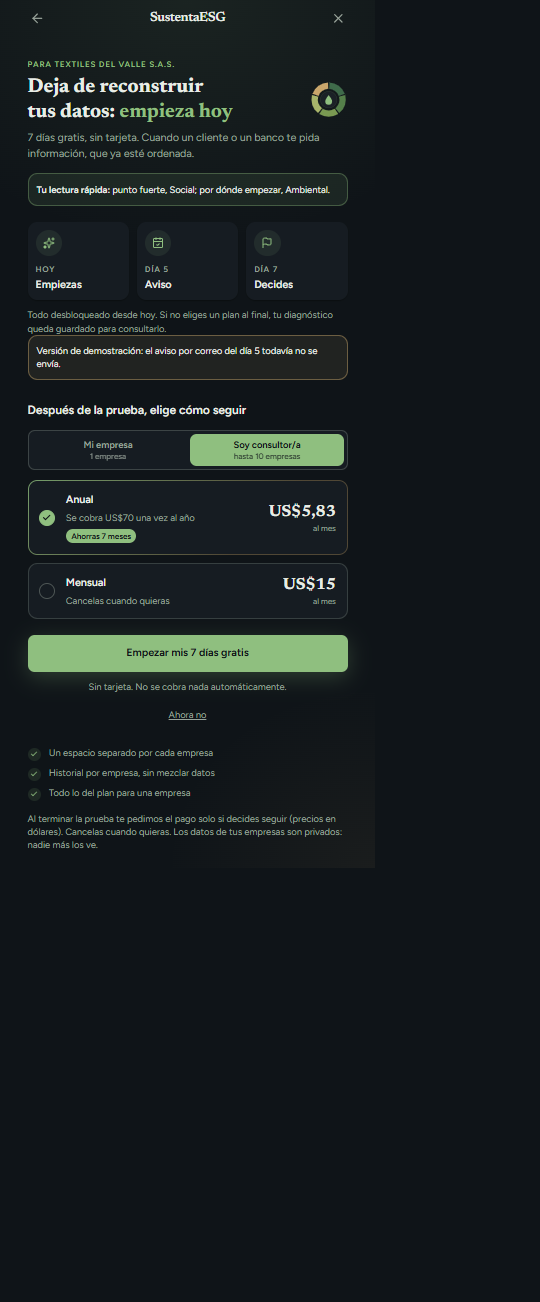
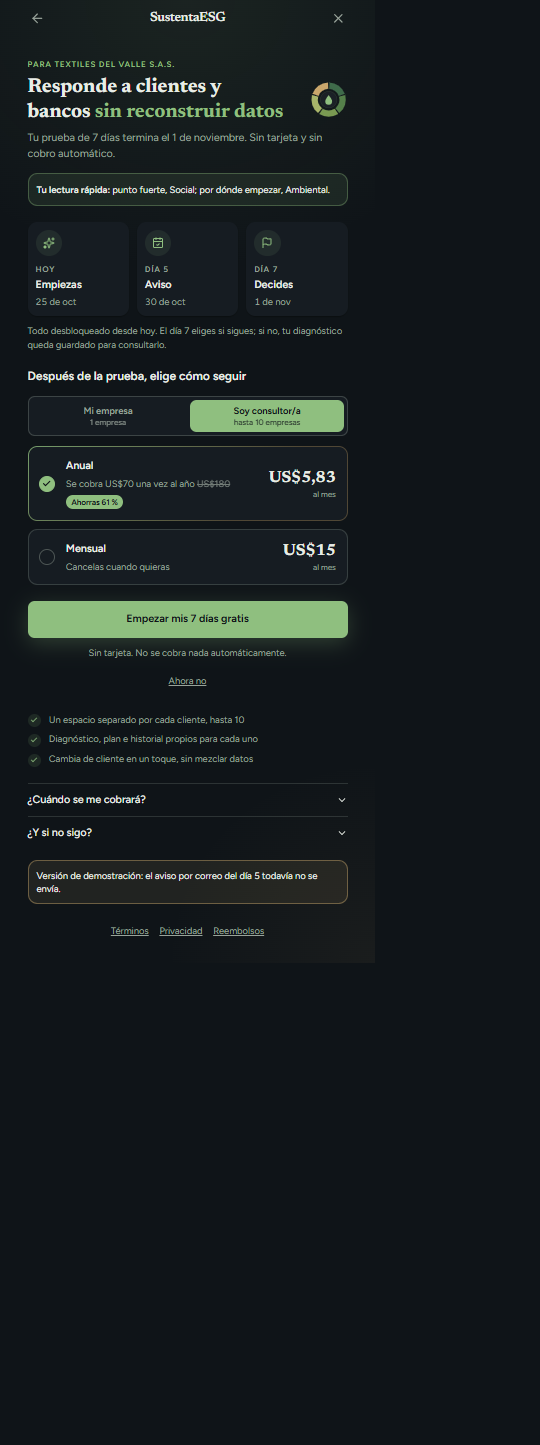
feat: planes con titular segun motivo, fechas reales, ahorro calculado y preguntas de cobro
Titular dinamico por motivo del recorrido, fecha exacta de fin de prueba y linea de
tiempo con fechas, ahorro del anual calculado desde los precios (lib/planes.ts con
pruebas), beneficios como resultado, preguntas sobre el cobro, enlaces legales,
entrada escalonada con reduced-motion y evento planes_salida. 65 pruebas.

Changed region(s): [[0.0296, 0.0, 0.6519, 0.6759]]

diff --git a/components/planes/Planes.tsx b/components/planes/Planes.tsx
@@ -6,13 +6,13 @@
 
 import { useEffect, useState } from 'react';
 import Link from 'next/link';
-import { motion } from 'motion/react';
-import { CalendarCheck, Check, Flag, Sparkles } from 'lucide-react';
+import { motion, useReducedMotion } from 'motion/react';
+import { CalendarCheck, Check, ChevronDown, Flag, Sparkles } from 'lucide-react';
 import { Marco } from '@/components/flujo/Marco';
 import { RuedaMini } from '@/components/flujo/RuedaMini';
 import { track } from '@/lib/analytics';
 import { MODO_DEMO, sesionActual } from '@/lib/auth';
-import { guardarPlan, leerInicio, leerPlan, perfilSugerido, type Ciclo, type Perfil } from '@/lib/demo/store';
+import { guardarPlan, leerInicio, leerPlan, perfilSugerido, type Ciclo, type Motivo, type Perfil } from '@/lib/demo/store';
 import { NOMBRE_DIMENSION } from '@/lib/diagnostico/banco';
 import { lecturaRapida } from '@/lib/diagnostico/rapida';
 import { PLANES } from '@/lib/planes';
@@ -20,10 +20,23 @@ import { TRIAL_DIAS } from '@/lib/site';
 import { useMontado } from '@/lib/useMontado';
 
 const LINEA_TIEMPO = [
-  { icono: Sparkles, cuando: 'Hoy', titulo: 'Empiezas' },
-  { icono: CalendarCheck, cuando: 'Día 5', titulo: 'Aviso' },
-  { icono: Flag, cuando: `Día ${TRIAL_DIAS}`, titulo: 'Decides' },
+  { icono: Sparkles, cuando: 'Hoy', dias: 0, titulo: 'Empiezas' },
+  { icono: CalendarCheck, cuando: 'Día 5', dias: 5, titulo: 'Aviso' },
+  { icono: Flag, cuando: `Día ${TRIAL_DIAS}`, dias: TRIAL_DIAS, titulo: 'Decides' },
 ];
+
+/** Titular según para qué vino la persona (respuesta del recorrido): la promesa se parece a su motivo. */
+const TITULARES: Record<Motivo, { antes: string; acento: string }> = {
+  cliente: { antes: 'Responde a clientes y bancos', acento: 'sin reconstruir datos' },
+  direccion: { antes: 'Muestra a tu dirección cómo estás,', acento: 'con datos ordenados' },
+  ordenar: { antes: 'Deja de reconstruir tus datos:', acento: 'empieza hoy' },
+  cero: { antes: 'Deja de reconstruir tus datos:', acento: 'empieza hoy' },
+  otra: { antes: 'Deja de reconstruir tus datos:', acento: 'empieza hoy' },
+};
+
+const formatoDia = new Intl.DateTimeFormat('es-CO', { day: 'numeric', month: 'short' });
+const formatoDiaLargo = new Intl.DateTimeFormat('es-CO', { day: 'numeric', month: 'long' });
+const sumarDias = (base: Date, dias: number) => new Date(base.getFullYear(), base.getMonth(), base.getDate() + dias);
 
 export function Planes() {
   const montado = useMontado();
@@ -44,6 +57,16 @@ function PlanesCliente() {
   const [perfil, setPerfil] = useState<Perfil>(() => leerPlan()?.perfil ?? perfilSugerido(leerInicio()));
   const [ciclo, setCiclo] = useState<Ciclo>(() => leerPlan()?.ciclo ?? 'anual');
   const [empresa] = useState(() => leerInicio().empresa);
+  const [motivo] = useState<Motivo>(() => leerInicio().motivo ?? 'otra');
+  const [hoy] = useState(() => new Date());
+  const titular = TITULARES[motivo];
+  const reduce = useReducedMotion();
+  /** Entrada escalonada (60 ms entre bloques); sin desplazamiento si la persona pidió menos movimiento. */
+  const entrada = (i: number) => ({
+    initial: { opacity: 0, y: reduce ? 0 : 16 },
+    animate: { opacity: 1, y: 0 },
+    transition: { duration: 0.4, delay: reduce ? 0 : 0.06 * i, ease: [0.32, 0.72, 0, 1] as const },
+  });
   const [lectura] = useState(() => lecturaRapida(leerInicio().rapida));
   const [conSesion] = useState(() => sesionActual() !== null);
   const [abriendo, setAbriendo] = useState(false);
@@ -59,12 +82,12 @@ function PlanesCliente() {
       </p>
       <div className="mt-2 flex items-center justify-between gap-4">
         <h1 className="text-balance text-3xl font-bold leading-tight [font-family:var(--font-display)]">
-          Deja de reconstruir tus datos: <span className="text-[var(--accent)]">empieza hoy</span>
+          {titular.antes} <span className="text-[var(--accent)]">{titular.acento}</span>
         </h1>
         <RuedaMini tamano={56} />
       </div>
       <p className="mt-2 text-base text-[var(--text-secondary)]">
-        {TRIAL_DIAS} días gratis, sin tarjeta. Cuando un cliente o un banco te pida información, que ya esté ordenada.
+        Tu prueba de {TRIAL_DIAS} días termina el {formatoDiaLargo.format(sumarDias(hoy, TRIAL_DIAS))}. Sin tarjeta y sin cobro automático.
       </p>
 
       {lectura.completa && (lectura.fortaleza || lectura.atencion.length > 0) && (
@@ -76,27 +99,22 @@ function PlanesCliente() {
       )}
 
       <ol className="mt-6 grid grid-cols-[repeat(3,minmax(0,1fr))] gap-3" aria-label="Qué pasa durante la prueba">
-        {LINEA_TIEMPO.map((paso) => (
-          <li key={paso.cuando} className="rounded-[var(--radius-card)] bg-[var(--surface)] p-3 shadow-[var(--shadow-1)]">
+        {LINEA_TIEMPO.map((paso, i) => (
+          <motion.li key={paso.cuando} {...entrada(i)} className="rounded-[var(--radius-card)] bg-[var(--surface)] p-3 shadow-[var(--shadow-1)]">
             <span aria-hidden="true" className="flex size-10 items-center justify-center rounded-full bg-[var(--chip-bg)]">
               <paso.icono size={18} color="var(--accent)" />
             </span>
             <p className="mt-3 text-xs font-semibold uppercase tracking-widest text-[var(--text-secondary)]">{paso.cuando}</p>
             <p className="mt-1 text-base font-semibold leading-snug">{paso.titulo}</p>
-          </li>
+            <p className="mt-1 text-sm tabular-nums text-[var(--text-secondary)]">{formatoDia.format(sumarDias(hoy, paso.dias))}</p>
+          </motion.li>
         ))}
       </ol>
       <p className="mt-3 text-sm text-[var(--text-secondary)]">
-        Todo desbloqueado desde hoy. Si no eliges un plan al final, tu diagnóstico queda guardado para consultarlo.
+        Todo desbloqueado desde hoy. El día {TRIAL_DIAS} eliges si sigues; si no, tu diagnóstico queda guardado para consultarlo.
       </p>
 
-      {MODO_DEMO && (
-        <p className="mb-6 rounded-[var(--radius-card)] border border-[color-mix(in_oklab,var(--accent-2)_45%,transparent)] bg-[color-mix(in_oklab,var(--accent-2)_10%,transparent)] p-3 text-sm">
-          Versión de demostración: el aviso por correo del día 5 todavía no se envía.
-        </p>
-      )}
-
-      <section aria-label="Elige tu plan para después de la prueba" className="mt-2">
+      <motion.section {...entrada(2)} aria-label="Elige tu plan para después de la prueba" className="mt-6">
         <h2 className="text-lg font-semibold">Después de la prueba, elige cómo seguir</h2>
 
         <div role="tablist" aria-label="Tipo de plan" className="mt-4 flex gap-2 rounded-[var(--radius-button)] border border-[color-mix(in_oklab,var(--text-tertiary)_35%,transparent)] bg-[var(--surface)] p-1">
@@ -159,7 +177,17 @@ function PlanesCliente() {
                   <span className="flex items-center gap-2 text-base font-semibold">
                     {info.etiqueta}
                   </span>
-                  <span className="mt-1 block text-sm text-[var(--text-secondary)]">{info.detalle}</span>
+                  <span className="mt-1 block text-sm text-[var(--text-secondary)]">
+                    {info.detalle}
+                    {info.antes && (
+                      <>
+                        {' '}
+                        <s className="opacity-70" aria-label={`antes ${info.antes}`}>
+                          {info.antes}
+                        </s>
+                      </>
+                    )}
+                  </span>
                   {info.insignia && (
                     <span className="mt-2 inline-block whitespace-nowrap rounded-full bg-[var(--accent)] px-2 py-0.5 text-xs font-semibold text-[var(--bg)]">{info.insignia}</span>
                   )}
@@ -173,9 +201,9 @@ function PlanesCliente() {
           })}
         </div>
 
-      </section>
+      </motion.section>
 
-      <div className="mt-6">
+      <motion.div {...entrada(3)} className="mt-6">
         <Link
           href={destino}
           aria-busy={abriendo}
@@ -193,7 +221,11 @@ function PlanesCliente() {
           {abriendo ? 'Abriendo…' : `Empezar mis ${TRIAL_DIAS} días gratis`}
         </Link>
         <p className="mt-3 text-center text-sm text-[var(--text-secondary)]">Sin tarjeta. No se cobra nada automáticamente.</p>
-        <Link href="/" className="mx-auto mt-2 flex h-12 w-fit items-center px-4 text-sm text-[var(--text-secondary)] underline">
+        <Link
+          href="/"
+          onClick={() => track('planes_salida', { perfil, ciclo })}
+          className="mx-auto mt-2 flex h-12 w-fit items-center px-4 text-sm text-[var(--text-secondary)] underline"
+        >
           Ahora no
         </Link>
 
@@ -207,11 +239,45 @@ function PlanesCliente() {
             </li>
           ))}
         </ul>
-        <p className="mt-4 text-sm text-[var(--text-secondary)]">
-          Al terminar la prueba te pedimos el pago solo si decides seguir (precios en dólares). Cancelas cuando quieras. Los datos de tus empresas son privados: nadie más los ve.
+        <div className="mt-6 flex flex-col">
+          <Pregunta pregunta="¿Cuándo se me cobrará?">
+            No se cobra nada automáticamente. El {formatoDiaLargo.format(sumarDias(hoy, TRIAL_DIAS))} termina tu prueba y, si quieres seguir, ese día eliges un plan (precios en dólares).
+          </Pregunta>
+          <Pregunta pregunta="¿Y si no sigo?">
+            Tu diagnóstico queda guardado para consultarlo. Los datos de tus empresas son privados: nadie más los ve.
+          </Pregunta>
+        </div>
+        {MODO_DEMO && (
+          <p className="mt-4 rounded-[var(--radius-card)] border border-[color-mix(in_oklab,var(--accent-2)_45%,transparent)] bg-[color-mix(in_oklab,var(--accent-2)_10%,transparent)] p-3 text-sm">
+            Versión de demostración: el aviso por correo del día 5 todavía no se envía.
+          </p>
+        )}
+        <p className="mt-4 flex flex-wrap justify-center gap-x-4 text-sm text-[var(--text-secondary)]">
+          <Link href="/terminos" className="flex h-12 items-center underline">
+            Términos
+          </Link>
+          <Link href="/privacidad" className="flex h-12 items-center underline">
+            Privacidad
+          </Link>
+          <Link href="/reembolsos" className="flex h-12 items-center underline">
+            Reembolsos
+          </Link>
         </p>
-      </div>
+      </motion.div>
     </Marco>
+  );
+}
+
+/** Pregunta frecuente en el punto de decisión: se abre y se cierra, con el texto a la vista al abrir. */
+function Pregunta({ pregunta, children }: { pregunta: string; children: React.ReactNode }) {
+  return (
+    <details className="group border-t border-[color-mix(in_oklab,var(--text-tertiary)_25%,transparent)]">
+      <summary className="flex min-h-12 cursor-pointer list-none items-center justify-between gap-3 text-base font-medium">
+        {pregunta}
+        <ChevronDown size={18} className="shrink-0 transition-transform group-open:rotate-180" aria-hidden="true" />
+      </summary>
+      <p className="pb-3 text-sm leading-relaxed text-[var(--text-secondary)]">{children}</p>
+    </details>
   );
 }
 

diff --git a/lib/planes.ts b/lib/planes.ts
@@ -1,12 +1,31 @@
-// Precios y contenido de los planes. Son HIPÓTESIS del dueño (por validar); la página de ventas
+// Precios y contenido de los planes. Los precios son HIPÓTESIS del dueño (por validar); la página de ventas
 // (components/landing/OfertaPorPerfil.tsx) repite estas cifras: si cambian, cambian en los dos sitios.
+// Todo lo que se muestra (equivalente mensual, «antes», porcentaje de ahorro) se CALCULA desde estos números:
+// nunca se escribe a mano un descuento que no salga de la cuenta.
 
 import type { Ciclo, Perfil } from '@/lib/demo/store';
+
+export const PRECIOS_US: Record<Perfil, { mensual: number; anual: number }> = {
+  empresa: { mensual: 9, anual: 60 },
+  consultor: { mensual: 15, anual: 70 },
+};
+
+const formatoUS = new Intl.NumberFormat('es-CO', { maximumFractionDigits: 2, minimumFractionDigits: 0 });
+export const dolares = (n: number) => `US$${formatoUS.format(Math.round(n * 100) / 100)}`;
+
+/** Lo que costarían 12 meses pagando mes a mes, y cuánto se ahorra (en %, redondeado) pagando el año. */
+export function ahorroAnual(perfil: Perfil): { antes: number; porcentaje: number } {
+  const { mensual, anual } = PRECIOS_US[perfil];
+  const antes = mensual * 12;
+  return { antes, porcentaje: Math.round((1 - anual / antes) * 100) };
+}
 
 export interface PlanCiclo {
   etiqueta: string;
   precioMes: string;
   detalle: string;
+  /** Solo el anual: precio de 12 meses mes a mes, para mostrarlo tachado. */
+  antes?: string;
   insignia?: string;
 }
 
@@ -17,31 +36,40 @@ export interface PlanPerfil {
   ciclos: Record<Ciclo, PlanCiclo>;
 }
 
+function ciclos(perfil: Perfil): Record<Ciclo, PlanCiclo> {
+  const { mensual, anual } = PRECIOS_US[perfil];
+  const ahorro = ahorroAnual(perfil);
+  return {
+    anual: {
+      etiqueta: 'Anual',
+      precioMes: dolares(anual / 12),
+      detalle: `Se cobra ${dolares(anual)} una vez al año`,
+      antes: dolares(ahorro.antes),
+      insignia: `Ahorras ${ahorro.porcentaje} %`,
+    },
+    mensual: { etiqueta: 'Mensual', precioMes: dolares(mensual), detalle: 'Cancelas cuando quieras' },
+  };
+}
+
 export const PLANES: Record<Perfil, PlanPerfil> = {
   empresa: {
     nombre: 'Mi empresa',
     alcance: '1 empresa',
     incluye: [
-      'Diagnóstico completo de las cuatro dimensiones',
-      'Plan de mejora con responsable y fecha',
-      'Historial y comparación entre periodos',
+      'Responde a clientes y bancos con tu información ya ordenada',
+      'Sabe qué hacer primero: acciones ordenadas por prioridad',
+      'Mira cómo avanza tu empresa de un periodo a otro',
     ],
-    ciclos: {
-      anual: { etiqueta: 'Anual', precioMes: 'US$5', detalle: 'Se cobra US$60 una vez al año', insignia: 'Ahorras 5 meses' },
-      mensual: { etiqueta: 'Mensual', precioMes: 'US$9', detalle: 'Cancelas cuando quieras' },
-    },
+    ciclos: ciclos('empresa'),
   },
   consultor: {
     nombre: 'Soy consultor/a',
     alcance: 'hasta 10 empresas',
     incluye: [
-      'Un espacio separado por cada empresa',
-      'Historial por empresa, sin mezclar datos',
-      'Todo lo del plan para una empresa',
+      'Un espacio separado por cada cliente, hasta 10',
+      'Diagnóstico, plan e historial propios para cada uno',
+      'Cambia de cliente en un toque, sin mezclar datos',
     ],
-    ciclos: {
-      anual: { etiqueta: 'Anual', precioMes: 'US$5,83', detalle: 'Se cobra US$70 una vez al año', insignia: 'Ahorras 7 meses' },
-      mensual: { etiqueta: 'Mensual', precioMes: 'US$15', detalle: 'Cancelas cuando quieras' },
-    },
+    ciclos: ciclos('consultor'),
   },
 };

diff --git a/lib/planes.test.ts b/lib/planes.test.ts
@@ -1,0 +1,40 @@
+import { describe, expect, it } from 'vitest';
+import { ahorroAnual, dolares, PLANES, PRECIOS_US } from './planes';
+
+describe('ahorro del plan anual', () => {
+  it('se calcula desde los precios: 12 meses mes a mes contra el año', () => {
+    expect(ahorroAnual('empresa')).toEqual({ antes: 108, porcentaje: 44 });
+    expect(ahorroAnual('consultor')).toEqual({ antes: 180, porcentaje: 61 });
+  });
+
+  it('nunca promete más descuento del que hay', () => {
+    for (const p of ['empresa', 'consultor'] as const) {
+      const { mensual, anual } = PRECIOS_US[p];
+      expect(ahorroAnual(p).porcentaje).toBeLessThanOrEqual(Math.floor((1 - anual / (mensual * 12)) * 100) + 1);
+      expect(anual).toBeLessThan(mensual * 12);
+    }
+  });
+});
+
+describe('textos de los planes', () => {
+  it('muestra el equivalente mensual del anual con coma decimal', () => {
+    expect(PLANES.empresa.ciclos.anual.precioMes).toBe('US$5');
+    expect(PLANES.consultor.ciclos.anual.precioMes).toBe('US$5,83');
+  });
+
+  it('el precio «antes» y el porcentaje coinciden con la cuenta', () => {
+    expect(PLANES.empresa.ciclos.anual.antes).toBe('US$108');
+    expect(PLANES.empresa.ciclos.anual.insignia).toBe('Ahorras 44 %');
+    expect(PLANES.consultor.ciclos.anual.insignia).toBe('Ahorras 61 %');
+  });
+
+  it('el mensual no tiene descuento ni precio tachado', () => {
+    expect(PLANES.empresa.ciclos.mensual.antes).toBeUndefined();
+    expect(PLANES.empresa.ciclos.mensual.insignia).toBeUndefined();
+  });
+
+  it('da formato a los dólares', () => {
+    expect(dolares(9)).toBe('US$9');
+    expect(dolares(5.8333)).toBe('US$5,83');
+  });
+});

diff --git a/lib/analytics.ts b/lib/analytics.ts
@@ -8,6 +8,7 @@ export type EventoCamino =
   | 'onboarding_paso'
   | 'resultado_visto'
   | 'planes_visto'
+  | 'planes_salida'
   | 'prueba_elegida'
   | 'registro_iniciado'
   | 'cuenta_creada'

diff --git a/docs/revisiones/planes-veredicto.md b/docs/revisiones/planes-veredicto.md
@@ -1,15 +1,18 @@
 # VEREDICTO revisor-visual — planes
-Fecha: 2026-10-25 15:00
+Fecha: 2026-10-25 18:00
 Screenshot: docs/revisiones/planes-375.png
 Usabilidad: 32/40
 Craft: 14/20
-Copy (si vende): 15/20
+Copy (si vende): 16/20
 Fidelidad (si hubo referencia): N-A
 Veredicto: NO LISTA
-Top defectos: 1) [ALTA - movimiento, Planes.tsx] sin useReducedMotion, sin entrada escalonada, sin conteo de precio al cambiar anual/mensual, sin transicion del selector; solo whileTap en el CTA (linea 133). Fix: stagger 60 ms en bloques, precio con animate() y reduced-motion. 2) [ALTA - copy] especificidad 2 y sub-check de garantia nombrada fallido: ningun numero de prueba ni garantia con nombre y plazo cerca del CTA; "Sin tarjeta" no aparece junto al boton. Fix: una linea bajo el CTA con la proteccion real ya verificada ("7 dias gratis, sin tarjeta; cancelas en un clic") y nombrarla; garantia solo cuando Hotmart la confirme. 3) [MEDIA - CTA, y~1055 de 1471] el CTA ya queda mas cerca (antes ~1195), pero sigue bajo el primer viewport, con 6 bloques entre titular y boton (resumen, linea de tiempo, parrafo, nota de demo, selector, 2 tarjetas). Fix: barra inferior fija con el CTA y el precio elegido, o mover la nota de demo al pie. 4) [MEDIA - lectura] el resumen "punto fuerte, Social; por donde empezar, Ambiental" es texto plano con una coma mal puesta que lee raro y sin las barras que el usuario acaba de ver. Fix: mini-barras de 4 niveles o chips "Fuerte: Social" / "Empezar: Ambiental". 5) [BAJA - encaje/consistencia] el aviso de demo (ambar) y el resumen (verde) son dos cajas con estilos distintos pegadas a la linea de tiempo; parrafo legal final largo (5 lineas) y vinetas genericas ("Todo lo del plan para una empresa"); precios en dolares sin aclarar cobro en moneda local. Fix: unificar cajas, vinetas concretas (40 preguntas, informes, historial) y recortar el legal.
+Top defectos: 1) [ALTA - movimiento, Planes.tsx completo] sigue sin entrada escalonada, sin conteo del precio al cambiar anual/mensual o de perfil, sin useReducedMotion (solo lo usa Opciones.tsx), sin transicion al cambiar de selector; unico movimiento: whileTap en tarjetas y active:scale en CTA. Fix: stagger 60 ms con cubic-bezier(0.32,0.72,0,1), precio con animate() de conteo, useReducedMotion. 2) [MEDIA - carga y orden, entre titular y selector] 5 bloques antes de elegir plan (lectura rapida, linea de tiempo, parrafo, aviso de demo, titulo de seccion); la caja de lectura sigue como texto plano con puntuacion rara ("punto fuerte, Social; por donde empezar, Ambiental."). Fix: chips "Fuerte: Social" / "Empezar: Ambiental" y mover el aviso de demo al pie. 3) [MEDIA - copy, bajo el CTA] sub-check de garantia nombrada falla (decision aceptada por honestidad) y no hay ninguna prueba verificable; no se baja de 3 en oferta/especificidad. Fix: cuando Hotmart confirme, nombrar la garantia con plazo junto al boton; mientras tanto, un numero real del producto (p. ej. "40 preguntas, 5 dimensiones") en la linea bajo el CTA. 4) [BAJA - consistencia, tarjetas de plan y linea de tiempo] dos niveles de seleccion apilados (perfil + ciclo) y fechas en dos formatos ("25 de oct" vs "1 de noviembre"); selector con role=tablist sin tabpanel. Fix: unificar formato de fecha y usar role=radiogroup en el selector de perfil. 5) [BAJA - jerarquia, beneficios bajo "Ahora no"] los beneficios (13 px, gris) quedan tras el CTA, lejos de las tarjetas de precio donde se decide. Fix: subirlos a la tarjeta del plan elegido o justo antes del CTA.
 
 ## Verificado en codigo y captura
-Corregido bien: rueda mas pequena y alineada al titular; resumen de lectura en 2 lineas; "Aviso" en 1 linea (tarjetas niveladas); la lectura ahora se ve en el panel (segun informe, no re-capturado aqui, fuera de este screenshot); titular con "empieza hoy" en acento; selector, tarjeta Anual con check y hairline; ahorro 7 meses coherente; CTA h-14 verde con buen contraste, siempre habilitado, estado "Abriendo..."; "Ahora no" y cerrar visibles; nota honesta de demo. Sin useReducedMotion en Planes.tsx (grep). Detalle usabilidad: h1:3 h2:3 h3:3 h4:3 h5:3 h6:4 h7:3 h8:3 h9:3 h10:4 (suma 32). Craft: jerarquia:3 profundidad:3 identidad:3 movimiento:2 encaje:3 (suma 14). Copy: idea:3 especificidad:2 emocion:3 oferta:3 accion:4... ajustado a idea:3 especificidad:2 emocion:3 oferta:4 accion:3 (suma 15; especificidad <=2 se corrige aunque el total pase; sub-check de garantia: fallo aceptado como honestidad pero cuenta).
+Mejoras reales: titular por motivo con 2-3 palabras en acento; fecha exacta de fin de prueba bajo el titular; linea de tiempo con fechas reales; ahorro 61 % calculado en lib/planes.ts (70/180 = 61 %, coherente con la tarjeta); precio tachado US$180 legible; beneficios concretos; FAQ de cobro con fecha; enlaces legales con area tactil de 48 px; evento planes_salida; CTA h-14, verde sobre fondo con contraste 8,8, siempre habilitado, "Abriendo..." al tocar, en el primer viewport (y~650 de 812). Paleta, Newsreader/Figtree, radios y verde #8FBF7F coinciden con FICHA-ARTE; sin desvios. Test anti-clon: la paleta bosque no es la vetada (Capitulo/Umbral). Anclas de conversion: titular con énfasis OK, hairline degradé en tarjeta activa OK, chips SVG sin emojis OK, secciones distinguibles OK.
+Usabilidad: h1:3 h2:3 h3:3 h4:3 h5:3 h6:4 h7:3 h8:3 h9:3 h10:4 (suma 32). Craft: jerarquia:3 profundidad:3 identidad:3 movimiento:2 encaje:3 (suma 14). Copy: idea:3 especificidad:3 emocion:3 oferta:3 accion:4 (suma 16; ningun eje <=2; sub-check garantia nombrada: FALLA, aceptado como honestidad pero cuenta; message-match: no verificable, sin dato de anuncio).
+Gate de carga cognitiva: 1-2 fallas (bloques antes del plan, caja de lectura densa); no critico.
+Gate doble: NO se cumple (usabilidad <36 y craft <16). El bloqueo principal es movimiento.
 
 ## Resumen rondas anteriores
-Ronda 1: 28/40 · 11/20 · copy 11/20. Ronda 2: 27/40 · 11/20 · copy 12/20. Ronda 3: 30/40 · 13/20 · copy 13/20. Ronda 4 (con resumen de lectura): 31/40 · 14/20 · copy 14/20 (promesa "se queda en tu cuenta" no visible, CTA lejos, sin movimiento). Ronda 5 (esta): 32/40 · 14/20 · copy 15/20; sube usabilidad y copy, craft sin cambio por movimiento ausente.
+Ronda 1: 28/40 · 11/20 · copy 11/20. Ronda 2: 27/40 · 11/20 · copy 12/20. Ronda 3: 30/40 · 13/20 · copy 13/20. Ronda 4: 31/40 · 14/20 · copy 14/20. Ronda 5: 32/40 · 14/20 · copy 15/20. Ronda 6 (esta, tras guia de paywalls): 32/40 · 14/20 · copy 16/20; sube copy (fechas, ahorro calculado, titular por motivo), usabilidad y craft sin cambio porque el movimiento sigue ausente.

diff --git a/ESTADO.md b/ESTADO.md
@@ -171,4 +171,11 @@ Tu OK a la Etapa 0 → Etapa 1 (identidad visual): pregunta de referencia + 3 es
 - Pendiente: revisor-visual en curso (docs/revisiones/onboarding-veredicto.md y planes-veredicto.md); datos de abandono por paso solo cuando haya tráfico real (eventos ya instrumentados: onboarding_paso, resultado_visto).
 - 2026-10-25 · Revisor, ronda 1 de la lectura rápida: onboarding 31/40·15/20, planes 31/40·14/20·copy 14/20 (NO LISTA). Corregido después: contador único «Paso N de 8» con barra de 8 tramos; «Aún no lo sé» como enlace (4 opciones); ejemplo concreto por pregunta; «Construyendo» ~1,8 s; lectura sin promesa, filas tocables que llevan a su pregunta; el panel muestra la lectura; planes más corto. Ronda 2 en curso. Recomendación del revisor que queda: medir el abandono por paso (`onboarding_paso`) con tráfico real; si cae >15 % entre los pasos 4 y 5, o >20 % entre las preguntas rápidas, acortar (mover tamaño al panel o reducir a 2 preguntas rápidas).
 - 2026-10-25 · Revisor, ronda 2 de la lectura rápida: onboarding 33/40·15/20, planes 32/40·14/20·copy 15/20 (NO LISTA; gate 36/40 y 16/20). Corregido después sin 3.ª revisión: sin barras vacías en la fila «Aún no lo sabes», «Cambiar mis respuestas» con más aire, línea «Sin tarjeta. No se cobra nada automáticamente.» bajo el botón de planes. Verificado: la pregunta 4 NO estaba en blanco (captura a media transición; 4 opciones y paso 8 de 8). Pendiente real: movimiento en planes (entrada escalonada, conteo del precio), garantía/prueba nombrada en planes (solo cuando Hotmart la confirme), botón de planes más arriba o barra fija, celebración al llegar a la lectura.
-- sin-commit (otra vez): los cambios de la Etapa 7 (lectura rápida) están SIN commitear; el último guardado es 6e79901. Se guarda cuando el dueño lo pida.
+- Guardado: Etapa 7 (lectura rápida) commiteada como c1f8a4a (2026-10-25, a pedido del dueño). Sin cambios pendientes. Recordatorio: el proyecto sigue en la carpeta de la sesión (si se elimina la sesión se pierde también el guardado).
+
+## Etapa 8 — Paywall con guía de optimización (2026-10-25, documento pegado por el dueño)
+- Documento: guía de paywalls móviles de alta conversión (Blinkist «honest paywall», anclaje de precio, framing por mes, titular con respuestas del quiz, preguntas de objeciones). Se cruzó con la verdad del producto; ADOPTADO: titular dinámico según el motivo del recorrido; fecha exacta de fin de prueba y línea de tiempo con fechas reales; ahorro del anual CALCULADO desde los precios (precio de 12 meses tachado + «Ahorras 44 % / 61 %»; lib/planes.ts con pruebas); beneficios como resultado (solo lo que existe); «¿Cuándo se me cobrará?» / «¿Y si no sigo?»; enlaces Términos, Privacidad y Reembolsos; evento `planes_salida`.
+- NO ADOPTADO (y por qué): «más de 50.000 personas» y calificaciones (inventado: no hay usuarios; la guía del sistema lo prohíbe); plan mensual SIN prueba y prueba solo en el anual (nuestra prueba es de 7 días sin tarjeta para ambos y no hay cobro automático: es lo que desarma la ansiedad de cobro); precios US$ 3,33/39,99 y «67 %» (los precios son hipótesis del dueño; solo se muestra el % que sale de la cuenta); «soporte 24/7» y «sin anuncios» (falso hoy); «procesado por Apple/Google» y «restaurar compras» (es web con Hotmart); cobro automático el día 7 con tarjeta (no se toma tarjeta); ofertas de salida y urgencia/escasez (cambian la oferta comercial: decisión del dueño, propuesta pendiente); experimentación RICE y cuadro de métricas (necesita tráfico real; los eventos del embudo ya están instrumentados).
+- Pendiente de decisión del dueño: ¿oferta de salida al tocar «Ahora no» (por ejemplo ampliar la prueba)? Cuesta dinero/margen y cambia la oferta; solo con datos de abandono reales.
+- 65 pruebas (`npm test`). Cambios SIN commitear (último guardado c1f8a4a). Revisor en curso: docs/revisiones/planes-veredicto.md.
+- 2026-10-25 · Revisor, planes tras la guía: usabilidad 32/40 · craft 14/20 · COPY 16/20 (¡cumple el gate de copy: ningún eje ≤2!). NO LISTA solo por usabilidad (<36) y craft (<16). Corregido después sin nueva revisión: entrada escalonada y reduced-motion en planes, aviso de demostración movido al pie. Pendiente real: conteo del precio al cambiar de plan, chips en vez de texto para la lectura, beneficios más cerca del precio, garantía nombrada (solo cuando Hotmart la confirme), unificar formato de fecha. Cambios SIN commitear (último guardado c1f8a4a).
